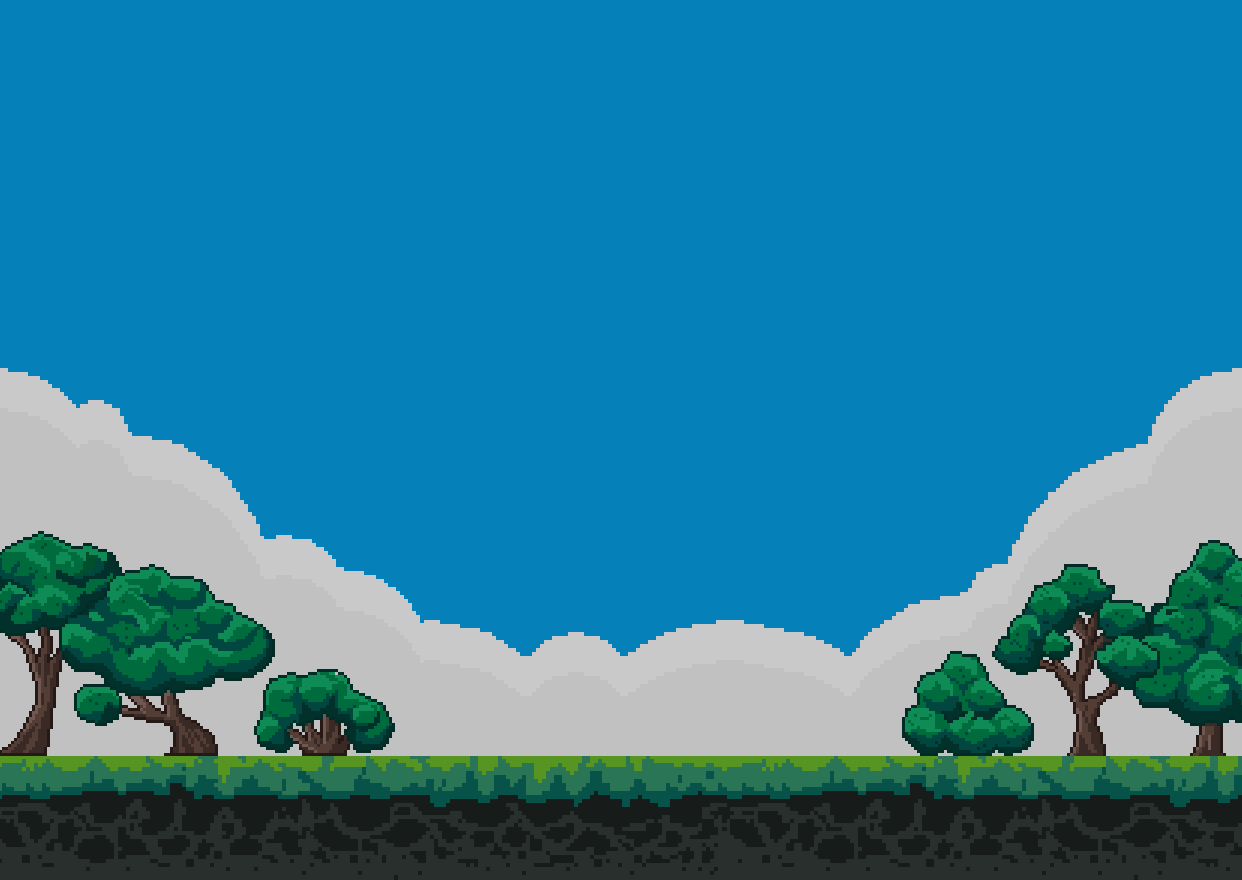
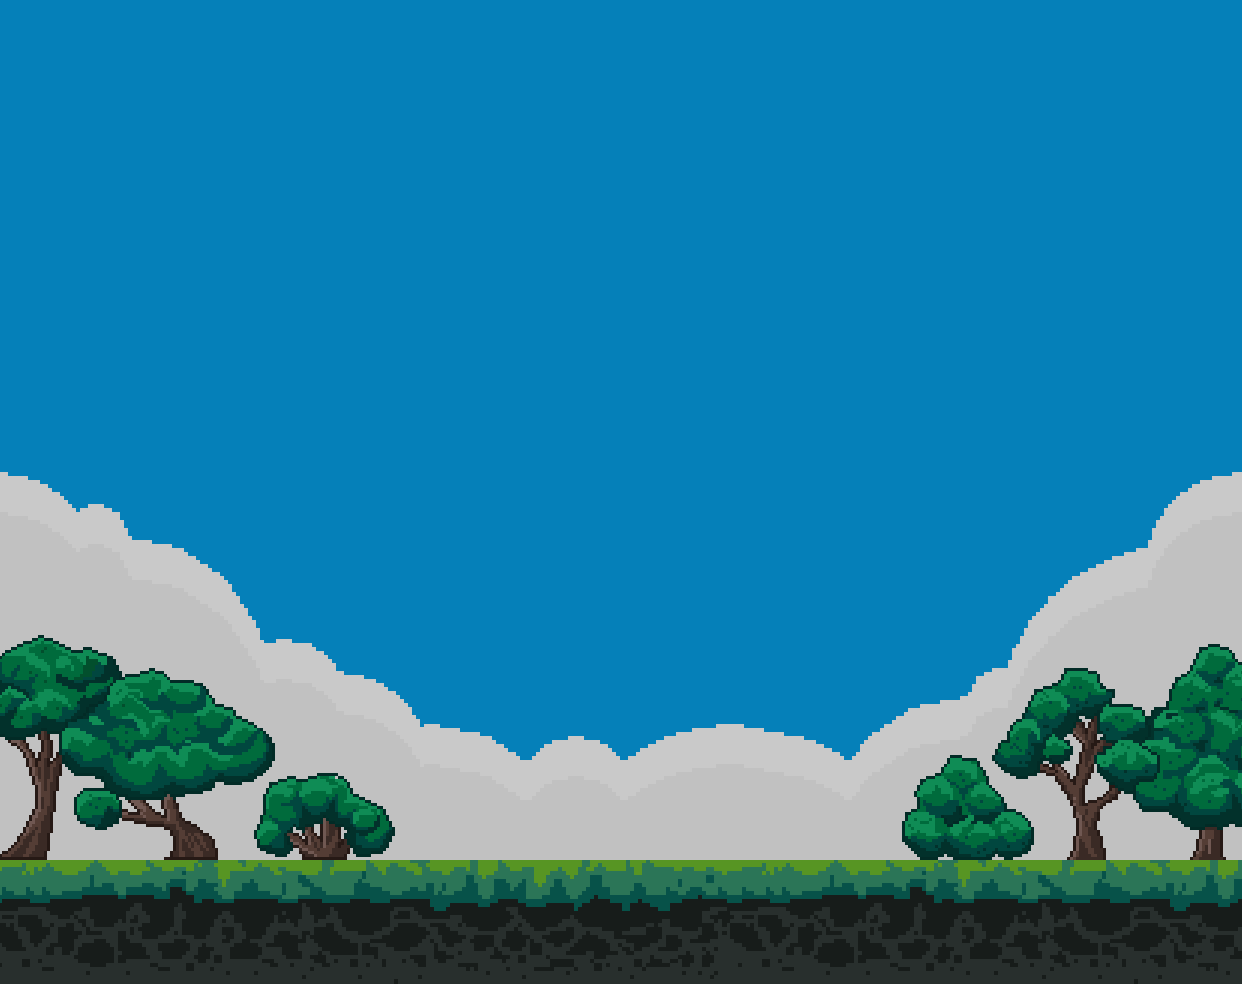
게임화면 높이 및 아이콘 위치 변경

Changed region(s): [[0.0, 0.3989, 1.0, 0.9205]]

diff --git a/public/style/style.css b/public/style/style.css
@@ -49,7 +49,6 @@ input, textarea {
 html, body {
     width: 100%;
     height: 100%;
-    background-color: #111;
     overflow: hidden; /* 스크롤 방지 */
 }
 html, body small{font-size: 70%;}
@@ -217,7 +216,7 @@ body::before {
    ========================================= */
 #game-container {
     width: 100%;
-    aspect-ratio: 1248 / 880; 
+    aspect-ratio: 1248 / 984; 
     background-color: transparent;
     position: relative;
     container-type: inline-size; /* 폰트 반응형 크기 조절용 */
@@ -237,6 +236,7 @@ body::before {
     width: 100%;
     height: 100%;
     padding: 3% 3%;
+    padding-top: 3rem;
     display: flex;
     justify-content: flex-start;
     align-items: flex-start;
@@ -282,14 +282,12 @@ body::before {
 /* [신규] 공통 UI 아이콘 버튼 (멤버, 사운드, 일시정지 등) */
 .ui-icon-btn {
     position: absolute;
-    top: 1rem; /* [수정] 펀치홀 방어를 위해 2rem으로 통일 */
+    top: 3rem; /* [수정] 펀치홀 방어를 위해 2rem으로 통일 */
     display: block;
     background-color: transparent;
     border: none;
     padding: 0;
-    width: 2.5rem; /* [신규/안전장치] 구형 기기용 너비 */
-    width: 8cqw;
-    max-width: 3rem;
+    width: 2rem;
     aspect-ratio: 1 / 1;
     background-size: contain;
     background-repeat: no-repeat;
@@ -310,8 +308,8 @@ body::before {
 
 /* 사운드 버튼 */
 .ui-icon-btn.--effect {
-    right: 13%;
-    right: 13cqw;
+    right: 12%;
+    right: 12cqw;
 }
 .ui-icon-btn.--effect.effect-on { background-image: url('../assets/images/icon_sound_on.png'); }
 .ui-icon-btn.--effect.effect-off { background-image: url('../assets/images/icon_sound_off.png'); }
@@ -325,8 +323,8 @@ body::before {
 
 /* 일시정지 버튼 */
 .ui-icon-btn.--pause {
-    right: 24%;
-    right: 24cqw; /* 사운드 버튼 왼쪽에 위치 */
+    right: 21%;
+    right: 21cqw; /* 사운드 버튼 왼쪽에 위치 */
     background-image: url('../assets/images/icon_pause.png');
 }
 /* (참고) 일시정지 토글 기능 구현 시 사용할 수 있는 스타일 */
@@ -339,6 +337,7 @@ body::before {
     position: absolute;
     top: 0;
     left: 0;
+    padding-top: 2rem;
     width: 100%;
     height: 100%;
     background-color: rgba(0, 0, 0, 0.4);
@@ -442,7 +441,7 @@ body::before {
 .btn-exit-to-home {
     all: unset;
     position: absolute;
-    top: 1rem;
+    top: 3rem;
     left: 0.75rem;
     border-radius: 2rem;
     border: solid 0.125rem #2e4b5f;
@@ -460,7 +459,7 @@ body::before {
 .btn-close-to-home {
     all: unset;
     position: absolute;
-    top: 1rem;
+    top: 3rem;
     left: 0.75rem;
     border-radius: 2rem;
     border: solid 0.125rem #3c1f23;
@@ -495,7 +494,7 @@ body::before {
 .coin-stat {
     all: unset;
     position: absolute;
-    top: 1rem;
+    top: 3rem;
     right: 4%;
     right: 4cqw;
     display: flex;
@@ -505,7 +504,7 @@ body::before {
     font-size: 1rem;
 }
 .coin-stat img{
-    width: 2.25rem;
+    width: 2rem;
 }
 
 
@@ -897,7 +896,8 @@ body::before {
     align-items: center;
     gap: 0.5rem;
     width: 100%;
-    aspect-ratio: 1248 / 880;
+    padding-top: 2rem;
+    aspect-ratio: 1248 / 984;
     position: relative;
     container-type: inline-size;
     background-image: url(../assets/images/home-bg.png);

diff --git a/public/js/game.js b/public/js/game.js
@@ -4,12 +4,6 @@
 
 // [1. 전역 변수 및 게임 설정]
 
-// 💡 안드로이드 상태표시줄 방어용 여백 변수 설정
-
-if (window.AndroidBridge) {
-    document.documentElement.style.setProperty('--android-safe-area', '35px'); // 상태표시줄 높이만큼 강제 여백
-}
-
 // 💡 안드로이드 & iOS 통합 네이티브 통신 브릿지 (전역 함수)
 window.invokeNativeApp = function(action, data = null) {
     // 1. 안드로이드 (AndroidBridge) 호출
@@ -30,7 +24,7 @@ window.invokeNativeApp = function(action, data = null) {
 const canvas = document.getElementById('gameCanvas');
 const ctx = canvas.getContext('2d');
 const GAME_WIDTH = 1248;
-const GAME_HEIGHT = 880;
+const GAME_HEIGHT = 984;
 canvas.width = GAME_WIDTH;
 canvas.height = GAME_HEIGHT;
 
@@ -160,7 +154,7 @@ class ScrollingBackground {
         ctx.drawImage(img, this.x + this.width, yPosition, this.width + 2, this.height);
     }
 }
-const skyBg = new ScrollingBackground('sky', 0.2, 1248, 756);
+const skyBg = new ScrollingBackground('sky', 0.2, 1248, 860);
 const floorBg = new ScrollingBackground('floor', 1.0, 1248, 124);
 
 const chicken = {
